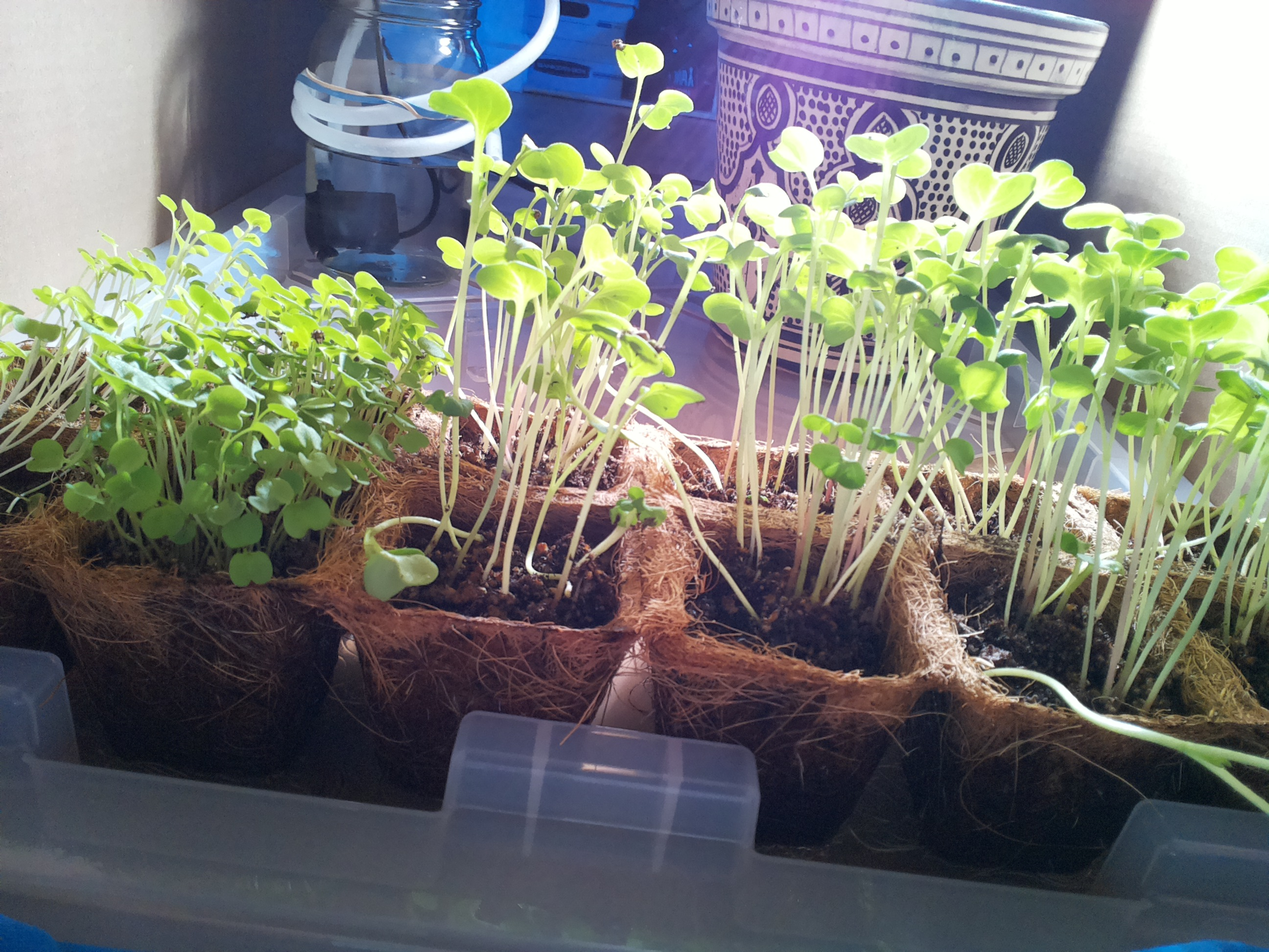
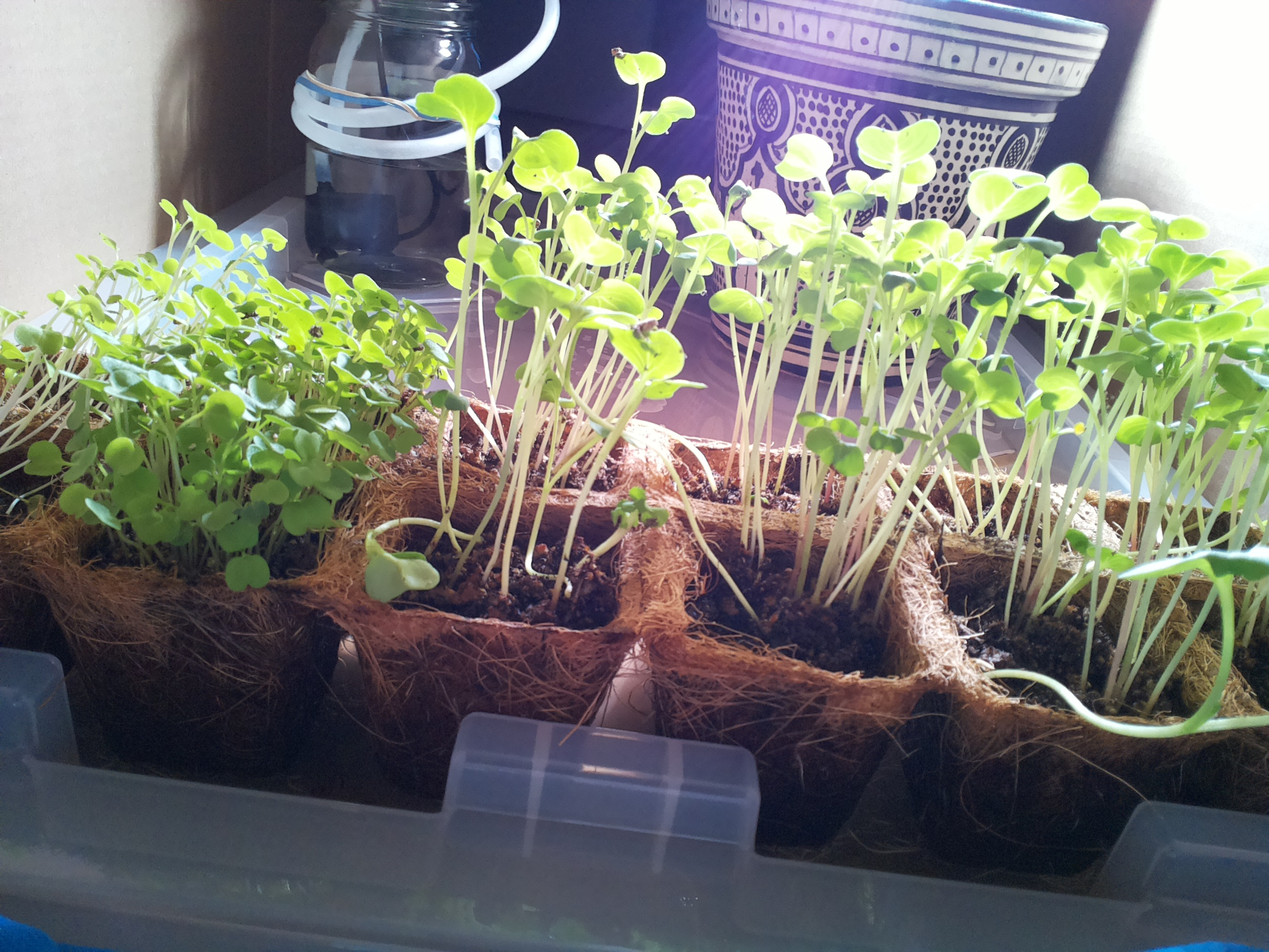
mirror sync 2026-09-03 19:30

diff --git a/JOURNAL.md b/JOURNAL.md
@@ -234,3 +234,11 @@
 - Lamp: on — correct for photoperiod.
 - Watering: none (observe-only per standing order 2); 4s of 60s daily cap used. Evening 19:22 pulse planned unless surfaces look dark.
 - No changes to standing orders.
+
+### 2026-09-03 19:22 — evening check-in (cron)
+- Photo: seedlings vigorous in all 12 cells (day 10) — tall, leggy, cotyledons broad, turgid, and green; true leaves developing; a couple of seed hulls still on cotyledon tips (normal). No wilting, mold, pests, or tipping. Tube in place over the lid.
+- Jar: zoomed photo shows dark water still high in the glass — refill holding, pump body well covered.
+- Soil: mixed — dark damp centers, drier crumbly spots with perlite showing; coir walls pale. Not uniformly dark → pulse warranted.
+- Lamp: on — correct for photoperiod.
+- Watering: 4s pulse per standing order 2 (8s of 60s daily cap used; water.py OK, pump plug verified OFF after). Post-pulse photo shows wet sheen on the lid behind the tray — bottom-feed path working. Jar level held.
+- No changes to standing orders. Next: 07:12 pulse unless surfaces look dark.
